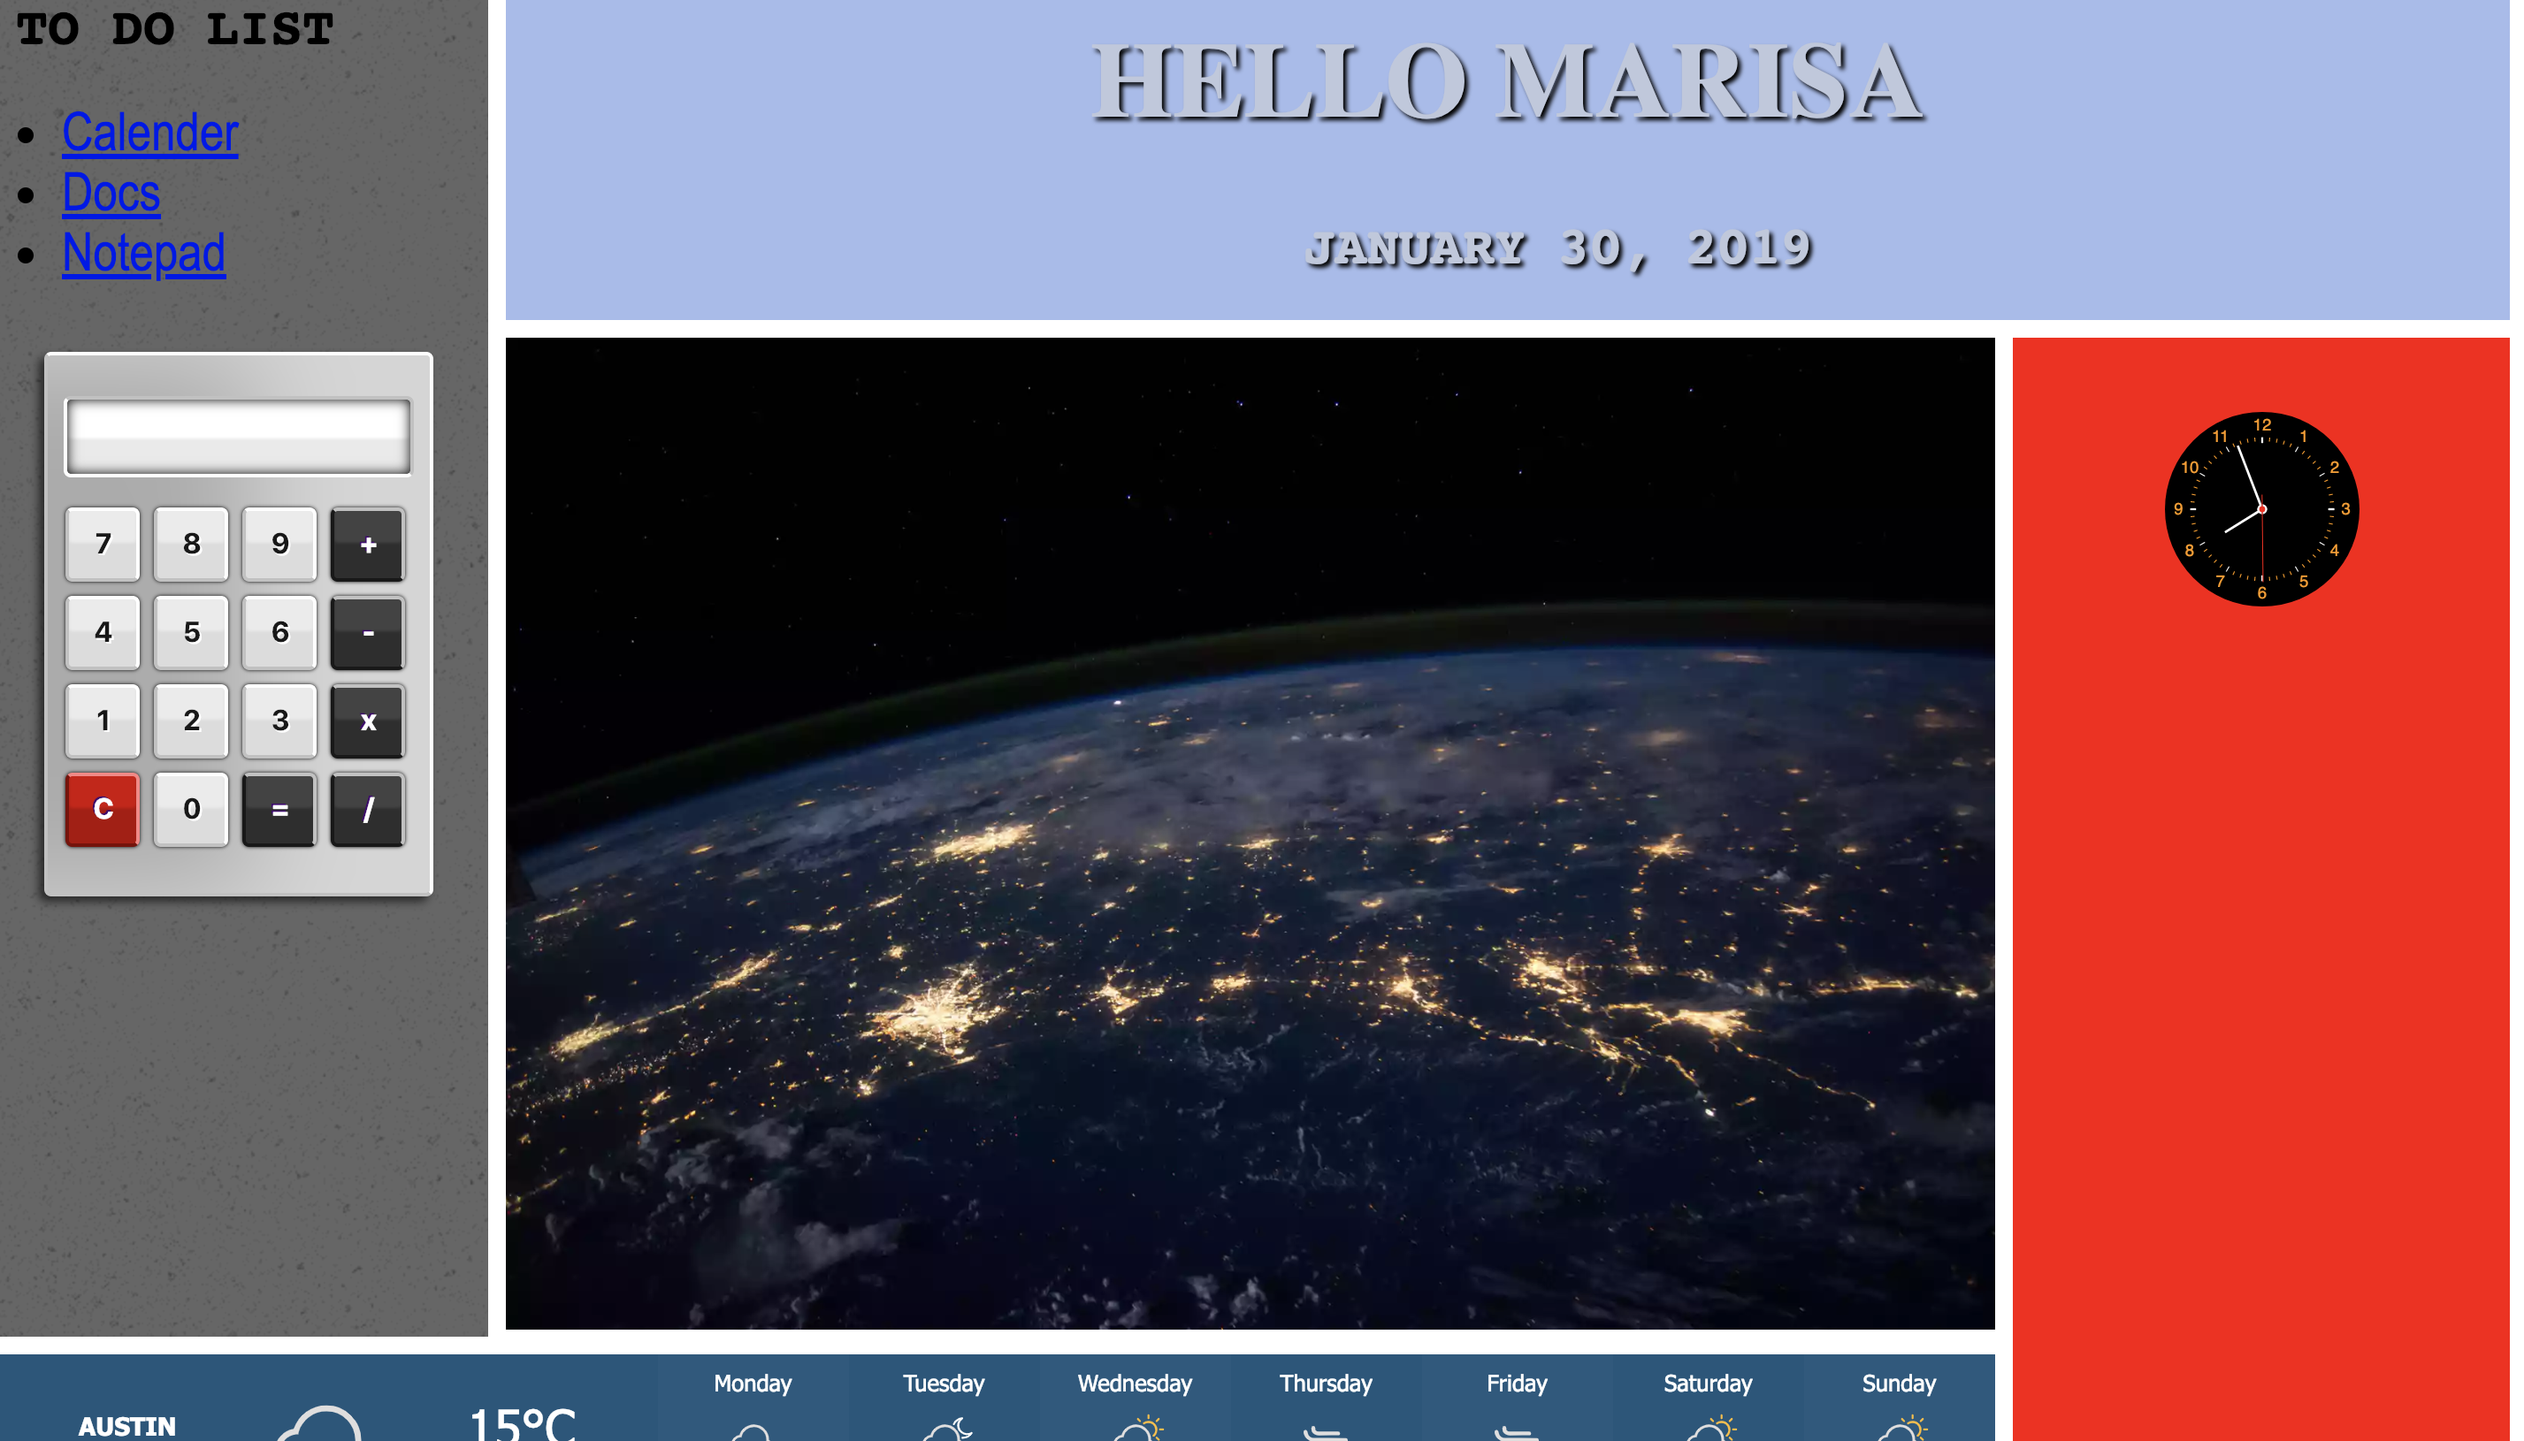
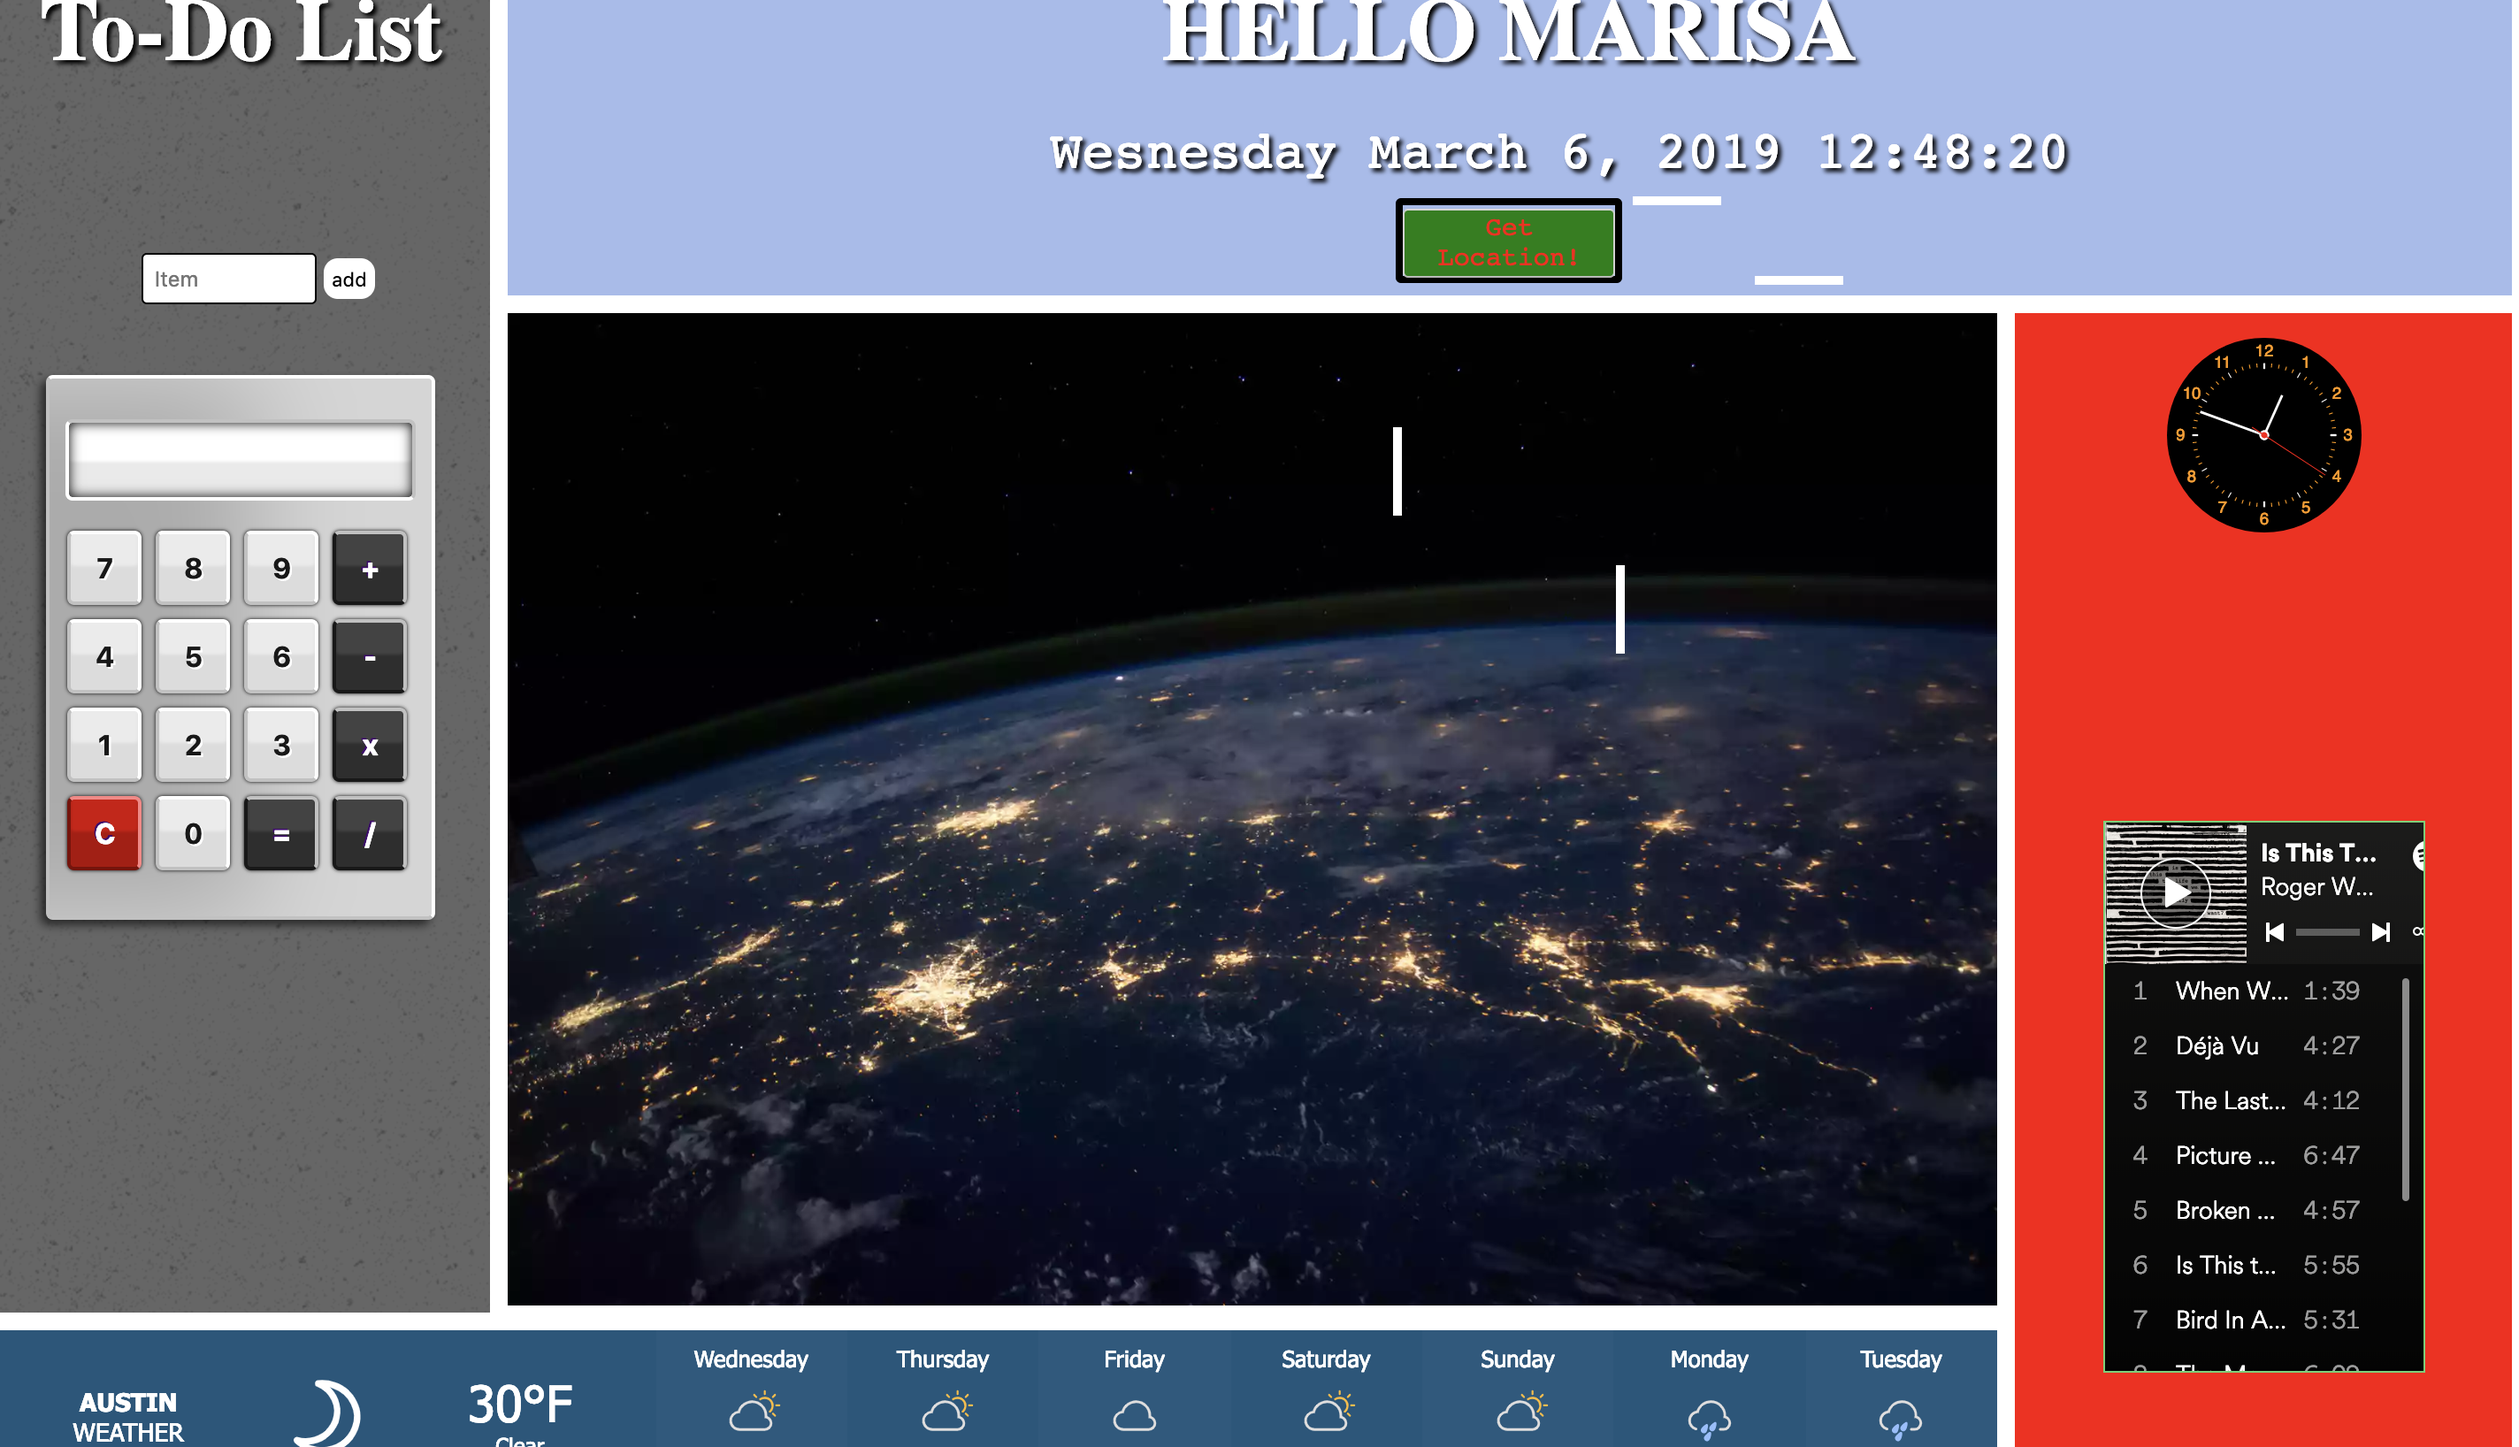
checkpoint 3

Changed region(s): [[0.0, 0.0, 1.0, 1.0], [0.0, 0.0, 0.1875, 0.2147], [0.5312, 0.3067, 0.5625, 0.3374]]

diff --git a/myPortfolio/script/dash_board.js b/myPortfolio/script/dash_board.js
@@ -39,7 +39,7 @@ function renderTime(){
   var day = mydate.getDay();
   var month = mydate.getMonth();
   var daym = mydate.getDate ();
-  var dayarray = new Array ("Sunday",   "Monday", "Tuesday", "Wesnesday",     "Thursday", "Friday", "Saturday");
+  var dayarray = new Array ("Sunday",   "Monday", "Tuesday", "Wednesday",     "Thursday", "Friday", "Saturday");
   var montharray= new Array("January",    "February", "March", "April",         "May", "June", "July", "August", "September", "October", "November",       "December");
   
   // date end
@@ -66,6 +66,21 @@ if(s < 10){
     myClock.innerText =  "" + dayarray[day]+ "  " +montharray[month]+ " "  +daym+ ", " +year+ "  " +h+ ":" +m+ ":" +s;
   
       setTimeout('renderTime()', 1000)
+}
+window.addEventListener('mousemove', nutterbutter);
+var _el = document.getElementById('ship');
+_el.addEventListener('dblclick', function(){
+	window.addEventListener('mousemove', nutterbutter);
+	_el.addEventListener('dblclick', removeNutter);
+});
+
+function removeNutter(){
+	window.removeEventListener('mousemove', nutterbutter);
+	_el.removeEventListener('dblclick', removeNutter);
+}
+function nutterbutter(){
+	_el.style.top = event.clientY + "px";
+	_el.style.left = event.clientX + "px";
 }
 
                         

diff --git a/myPortfolio/dash_board.html b/myPortfolio/dash_board.html
@@ -71,9 +71,12 @@
             </div>
             <!-- Main/Img -->
                 <div class="main">
+                        <div id="ship"></div>
                     <main>
                         <img src="https://images.unsplash.com/photo-1451187580459-43490279c0fa?ixlib=rb-1.2.1&ixid=eyJhcHBfaWQiOjEyMDd9&auto=format&fit=crop&w=1952&q=8">
+                        
                     </main>
+                   
                 </div>
                 <!-- Aside -->
                 <div class="aside">
@@ -93,6 +96,7 @@
                         
                     </div>
                 </div>
+                
                
                 <script
                 src="https://code.jquery.com/jquery-3.3.1.min.js"></script>

diff --git a/myPortfolio/css/dash_board.css b/myPortfolio/css/dash_board.css
@@ -27,6 +27,14 @@ h1 {
     font-family: monospace;
     margin-bottom: 10px; 
 }
+#ship {
+    width:56px;
+    height:56px;
+    position: absolute;
+    background-image:url(https://4.bp.blogspot.com/-etyNTo8hpIE/Uf8BfJYeymI/AAAAAAAAA5Q/9emQpKVj1fo/s1600/fighter-01.png);
+    background-size:cover;
+}
+
 .box-outer {
     display: flex;
     justify-content: center;
